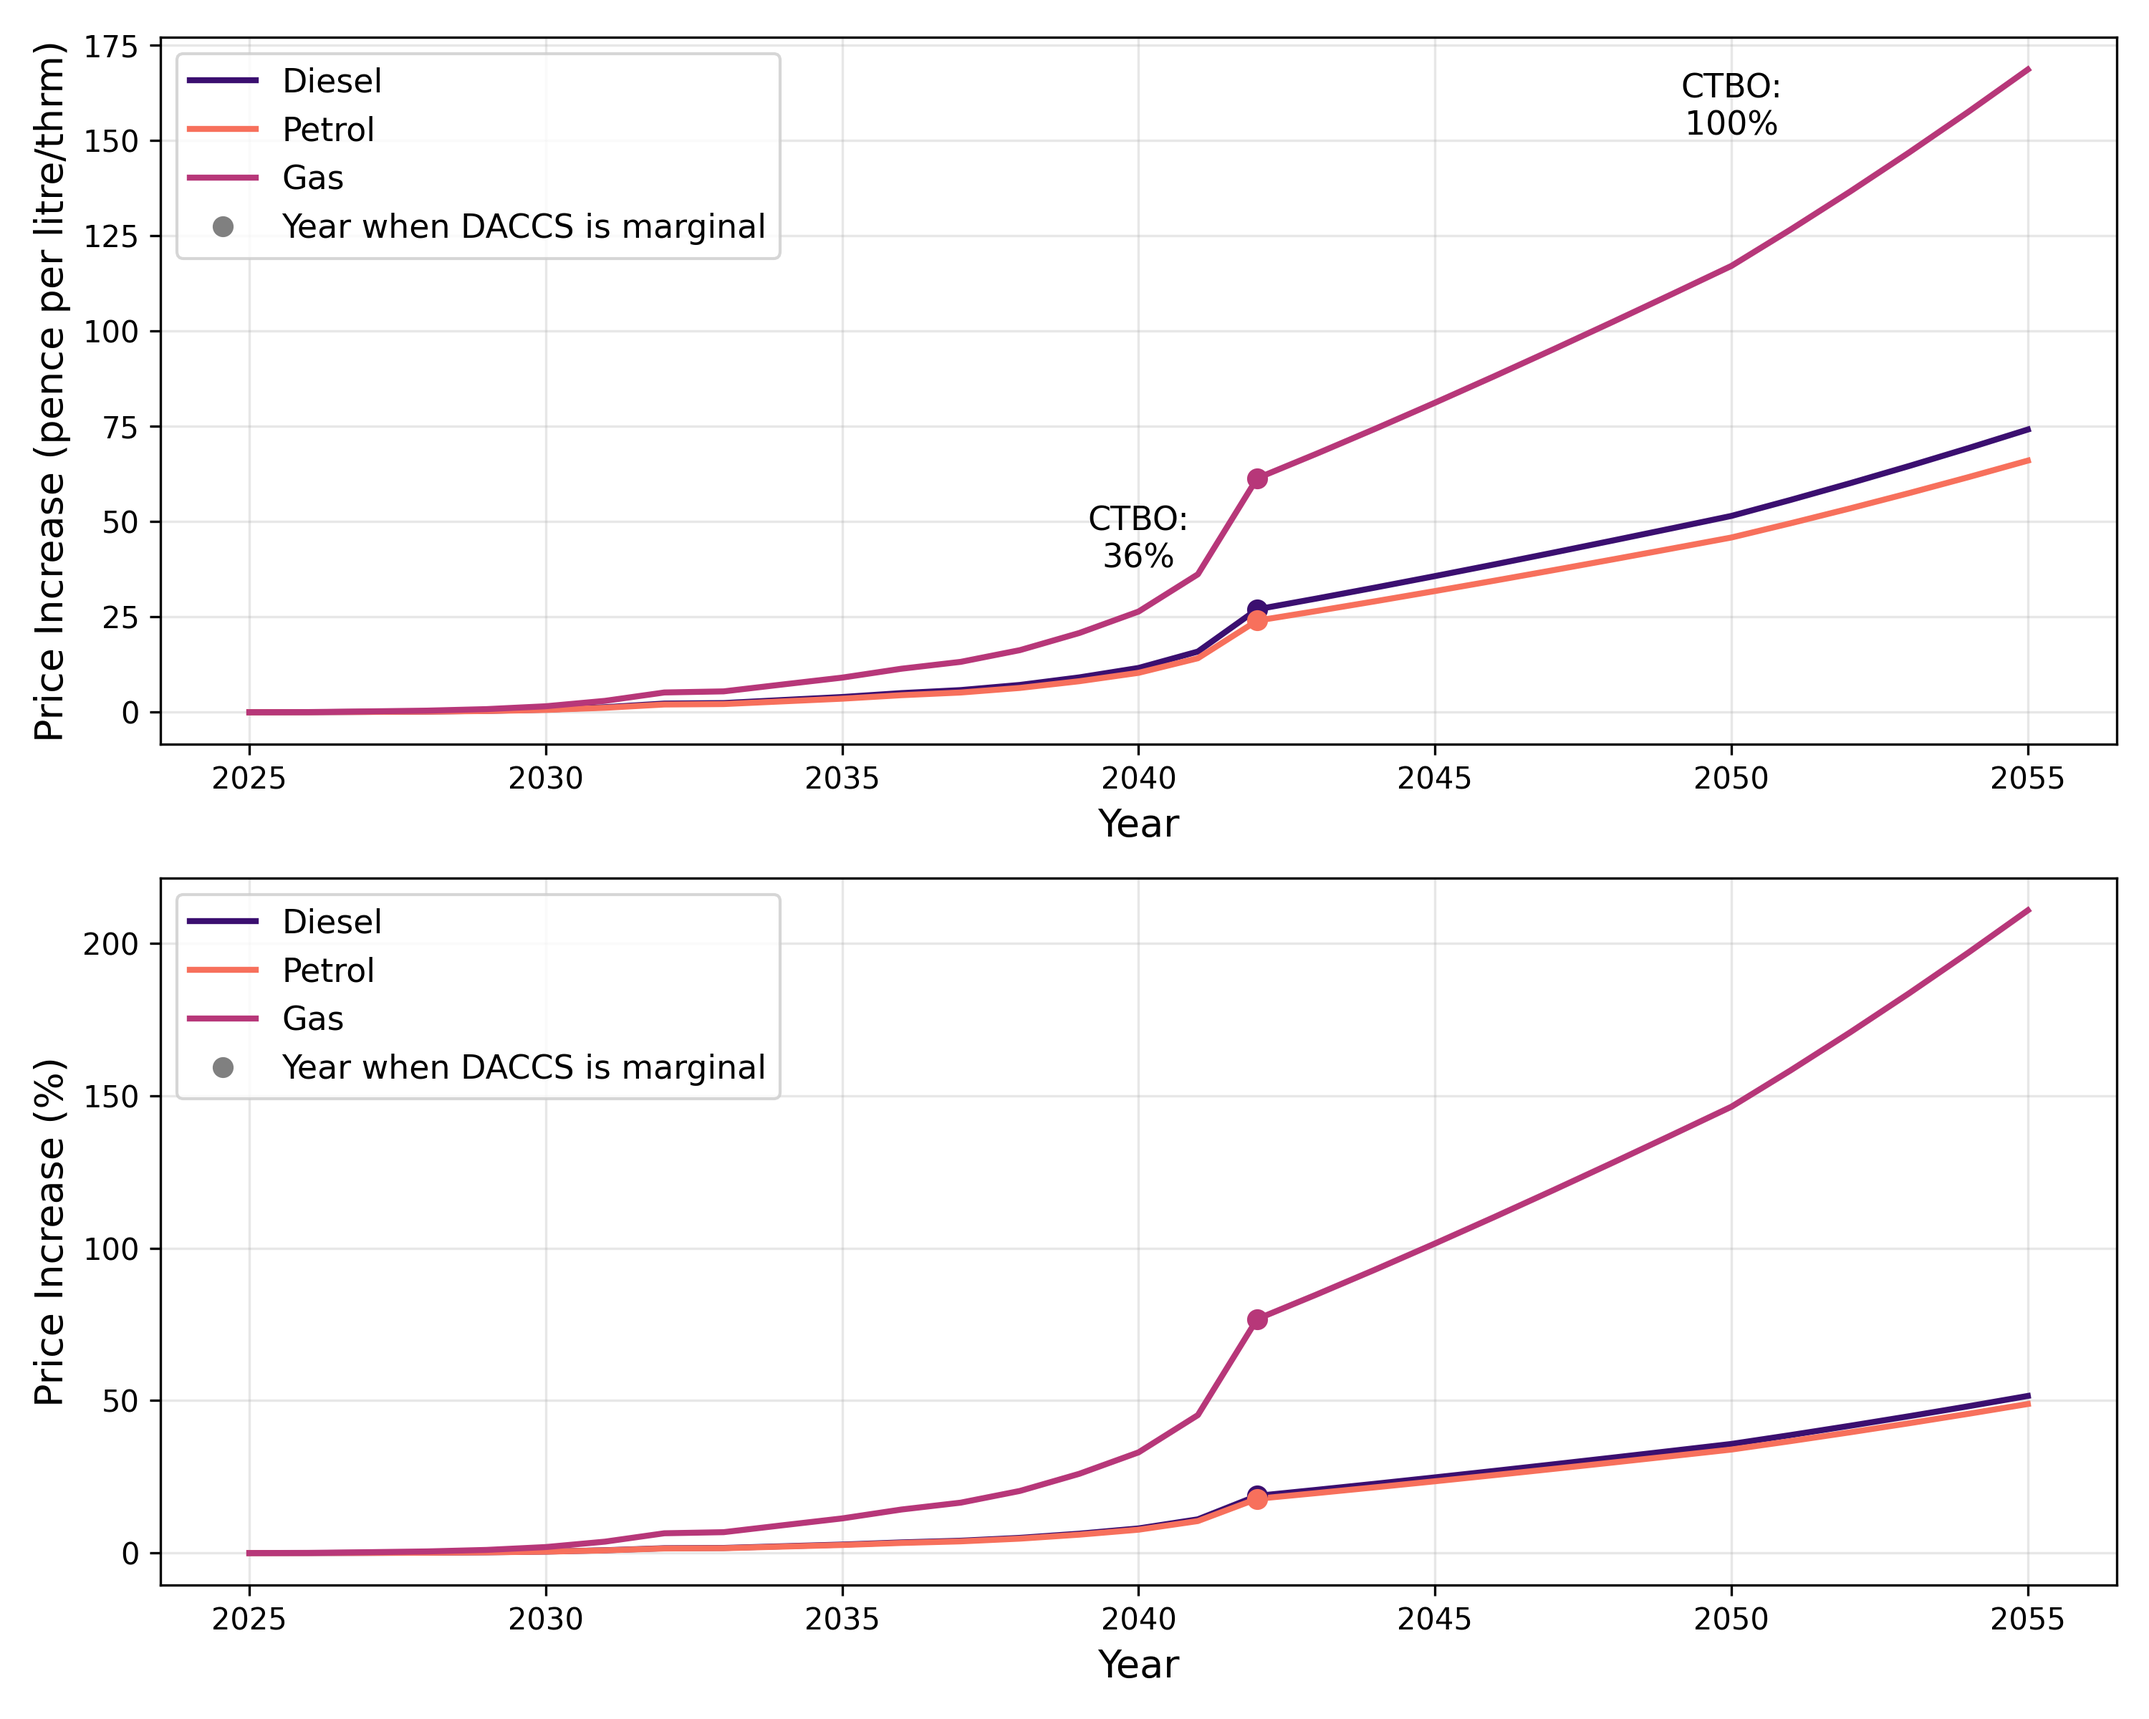
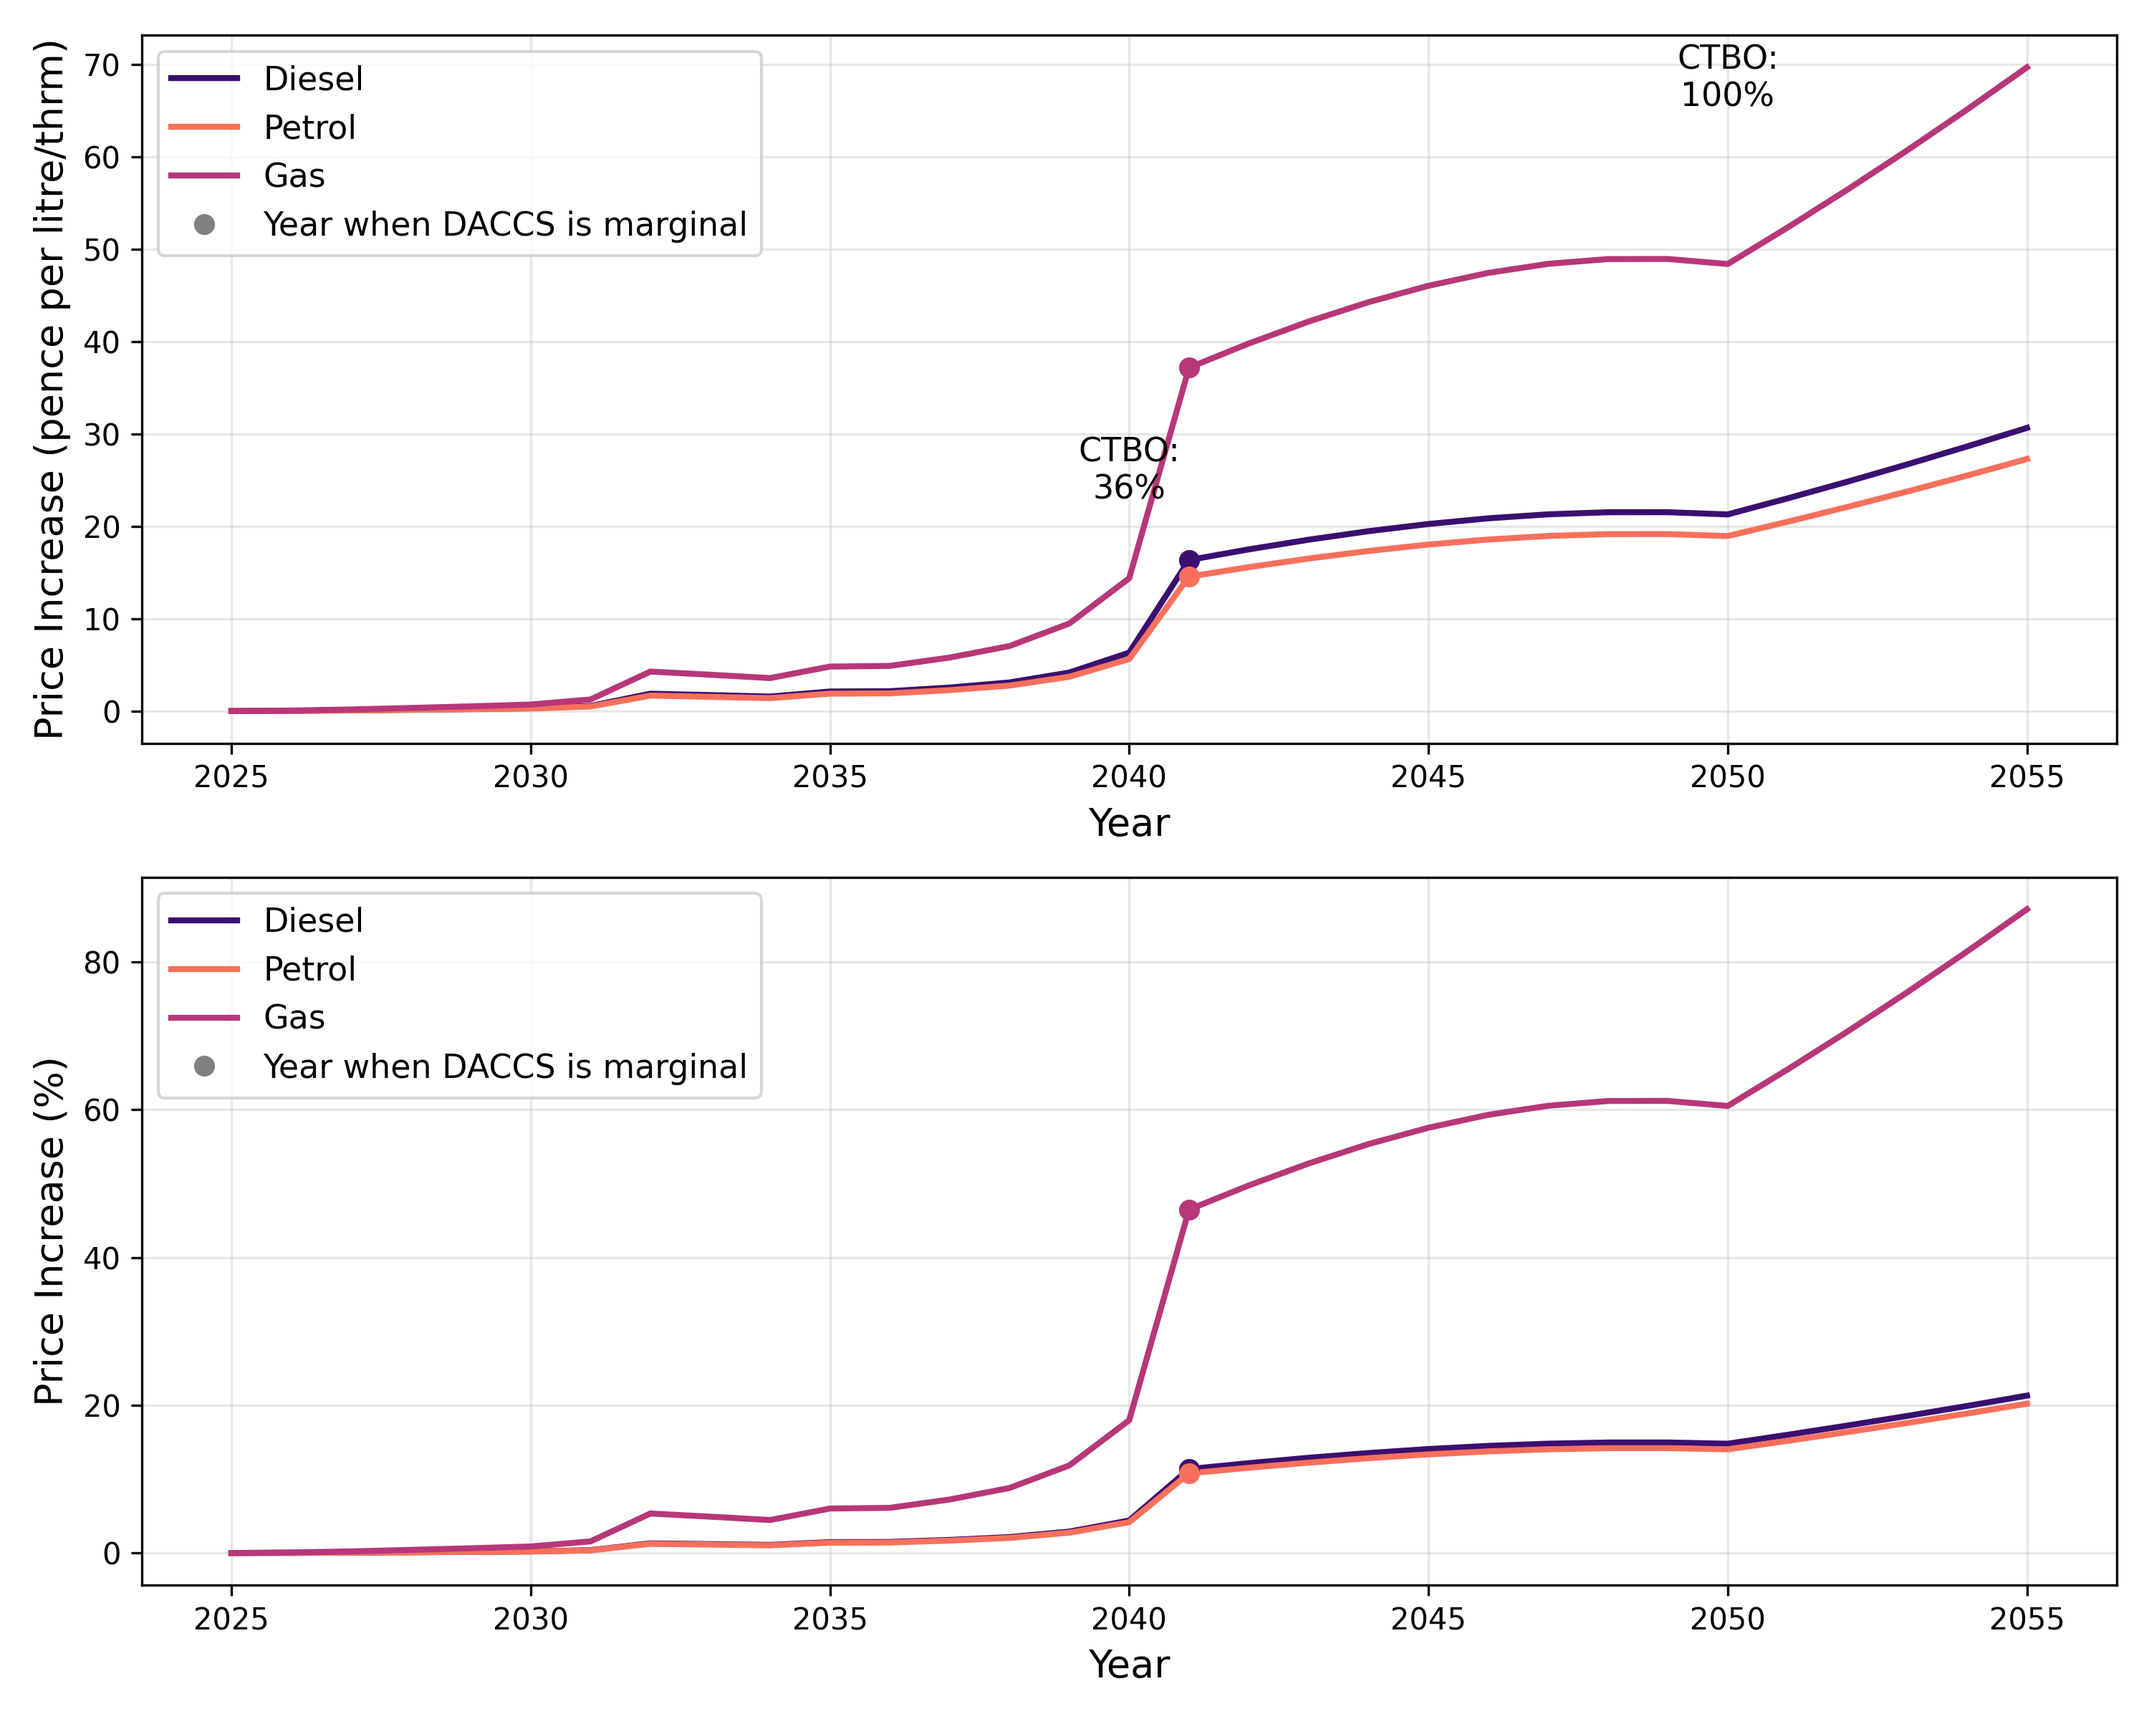
RUnning HALF combined scenarios

diff --git a/ctbo_combined.py b/ctbo_combined.py
@@ -255,7 +255,7 @@ def combined_simulation(
     END_YEAR=2055,
     baseline_emissions=None,
     DIFFUSE_START_FRACTION=1.0,
-    DIFFUSE_END_FRACTION=0.15,
+    DIFFUSE_END_FRACTION=0.20,
     DIFFUSE_TARGET_YEAR=2050,
     DISCOUNT_RATE=0.035,
     USE_INVESTMENT_YEAR_AS_BASE=False,
@@ -659,13 +659,12 @@ def combined_simulation(
     macc_foak_sim['invested'] = False
     macc = macc_foak_sim if USE_FOAK else macc_4oak_sim
     
-    macc_fossil_CO2 = macc['ktCO2f_yr_baseline'].sum()
-    omitted_CO2 = full_point_source_emissions - macc_fossil_CO2
-    
+    macc_fossil_CO2 = macc['ktCO2f_yr_baseline'].sum() 
+
     # Calculate baseline emissions
     total_emissions_2023 = (baseline_emissions['coal'] + baseline_emissions['oil'] +
                             baseline_emissions['gas']) * 1000 + full_cement_emissions
-    diffuse_baseline = total_emissions_2023 - omitted_CO2
+    diffuse_baseline = total_emissions_2023 - full_point_source_emissions # NOTE: same no matter if HALF=True or False
     
     # Create trajectories
     t = (years - START_YEAR) * 2/5
@@ -911,7 +910,7 @@ if __name__ == "__main__":
     # Run simulation with default parameters (or override as needed)
     results = combined_simulation(
         data,
-        HALF=False,
+        HALF=True,
         USE_FOAK=False,
         ETS_SCENARIO="Low",
         DACCS_EXPENSIVE=True,
